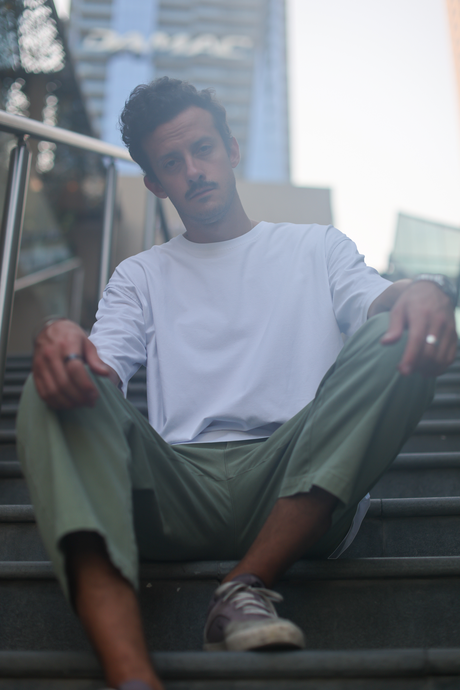
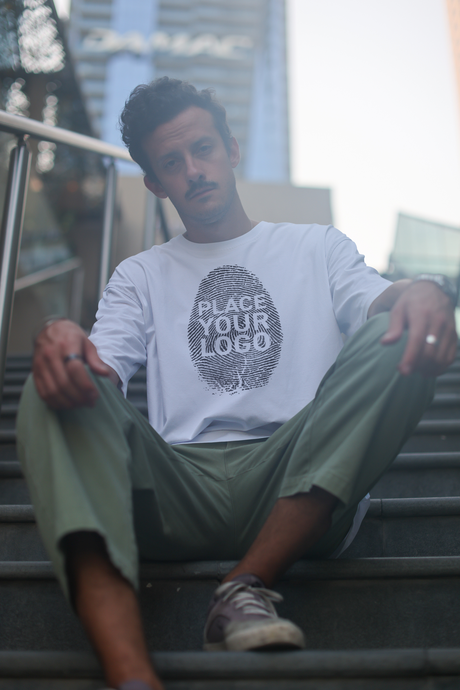
Fix warp shape (Bezier surface) + add hover color previews

Changed region(s): [[0.3957, 0.3652, 0.6087, 0.5783]]

diff --git a/index.html b/index.html
@@ -545,13 +545,13 @@ function showLoadError(){
 const MOCKUPS=[
   {id:'mockup3_package', label:'Mockup 3', model:'man1'},
   {id:'mockup4_package', label:'Mockup 4', model:'man1'},
-  {id:'mockup5_package', label:'Mockup 5', model:'man1'},
-  {id:'mockup6_package', label:'Mockup 6', model:'man1'},
-  {id:'mockup7_package', label:'Mockup 7', model:'man1'},
-  {id:'mockup8_package', label:'Mockup 8', model:'man1'},
-  {id:'mockup9_package', label:'Mockup 9', model:'man1'},
-  {id:'mockup10_package',label:'Mockup 10',model:'man1'},
-  {id:'mockup11_package',label:'Mockup 11',model:'man1'},
+  {id:'mockup5_package', label:'Mockup 5', model:'man1',hoverPreview:'shirt_preview_purple.png'},
+  {id:'mockup6_package', label:'Mockup 6', model:'man1',hoverPreview:'shirt_preview_pink.png'},
+  {id:'mockup7_package', label:'Mockup 7', model:'man1',hoverPreview:'shirt_preview_green.png'},
+  {id:'mockup8_package', label:'Mockup 8', model:'man1',hoverPreview:'shirt_preview_red.png'},
+  {id:'mockup9_package', label:'Mockup 9', model:'man1',hoverPreview:'shirt_preview_orange.png'},
+  {id:'mockup10_package',label:'Mockup 10',model:'man1',hoverPreview:'shirt_preview_blue.png'},
+  {id:'mockup11_package',label:'Mockup 11',model:'man1',hoverPreview:'shirt_preview_yellow.png'},
   {id:'mockup12_package',label:'Mockup 12',model:'man1'},
   {id:'mockup13_package',label:'Mockup 13',model:'man1',hoverPreview:'shirt_preview_teal.png'},
 ];
